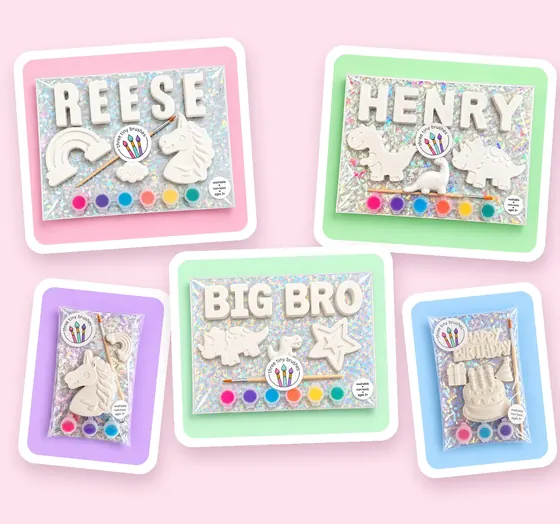
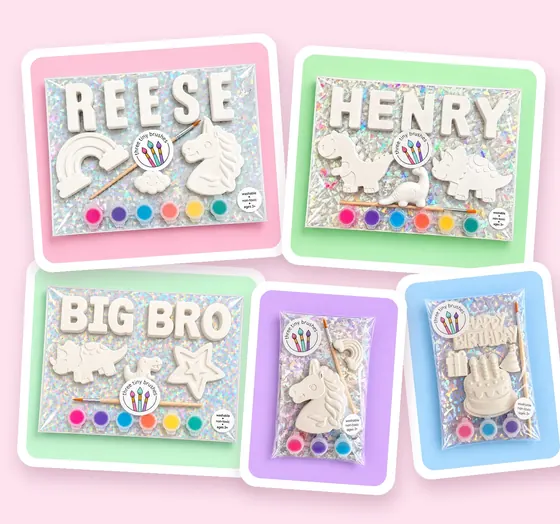
Hero collage: overlapping 5-card layout

diff --git a/tools/make_hero_collage.py b/tools/make_hero_collage.py
@@ -1,4 +1,4 @@
-# Builds the hero collage (Reese + Henry name kits, Big Bro kit, Unicorn & Rainbow + Happy Birthday party packs; Oct 12 2026) -> site-revamp/images/hero-kits-collage.jpg; then resize to img/hero-kits-{560,800,1100}.
+# Builds the hero collage (Reese + Henry name kits, Big Bro kit, Unicorn & Rainbow + Happy Birthday party packs; overlapping layout, Oct 12 2026) -> site-revamp/images/hero-kits-collage.jpg; then resize to img/hero-kits-{560,800,1100}.
 from PIL import Image,ImageDraw,ImageFilter
 S='/workspace/threetinybrushes/site-revamp/images/';P='/workspace/threetinybrushes/incoming/2026-10-06-party-packs/'
 old=Image.open(S+'hero-kits-collage.jpg').convert('RGB');bg=old.getpixel((10,10))
@@ -20,9 +20,9 @@ def place(cd,x,y,ang):
     c.alpha_composite(sh);c.alpha_composite(cd,(x,y))
 # name kits: crop to the package area (pkg ~145..895 x 225..785 of 1024 scale on 1600 -> *1.5625)
 k=lambda a:(int(a[0]*1.5625),int(a[1]*1.5625),int(a[2]*1.5625),int(a[3]*1.5625))
-place(card(S+'unicorn-wishes-personalized-paintable-name-kit.jpg',580,508,k((70,150,970,880))),30,90,4)
-place(card(S+'dino-mite-personalized-paintable-name-kit.jpg',580,508,k((70,150,970,880))),780,110,-4)
-place(card(P+'party-pack-1.png',350,465),40,690,-6)
-place(card(S+'big-bro-paint-kit.jpg',560,490,k((70,150,970,880))),420,610,2)
-place(card(P+'happy-birthday-pack.png',350,465),1000,700,6)
+place(card(S+'big-bro-paint-kit.jpg',600,525,k((70,150,970,880))),40,640,-3)
+place(card(S+'unicorn-wishes-personalized-paintable-name-kit.jpg',640,560,k((70,150,970,880))),50,80,4)
+place(card(S+'dino-mite-personalized-paintable-name-kit.jpg',630,550,k((70,150,970,880))),700,110,-4)
+place(card(P+'happy-birthday-pack.png',390,515),985,650,6)
+place(card(P+'party-pack-1.png',390,515),595,700,-4)
 c.convert('RGB').save('hero-kits-collage.jpg',quality=92)
